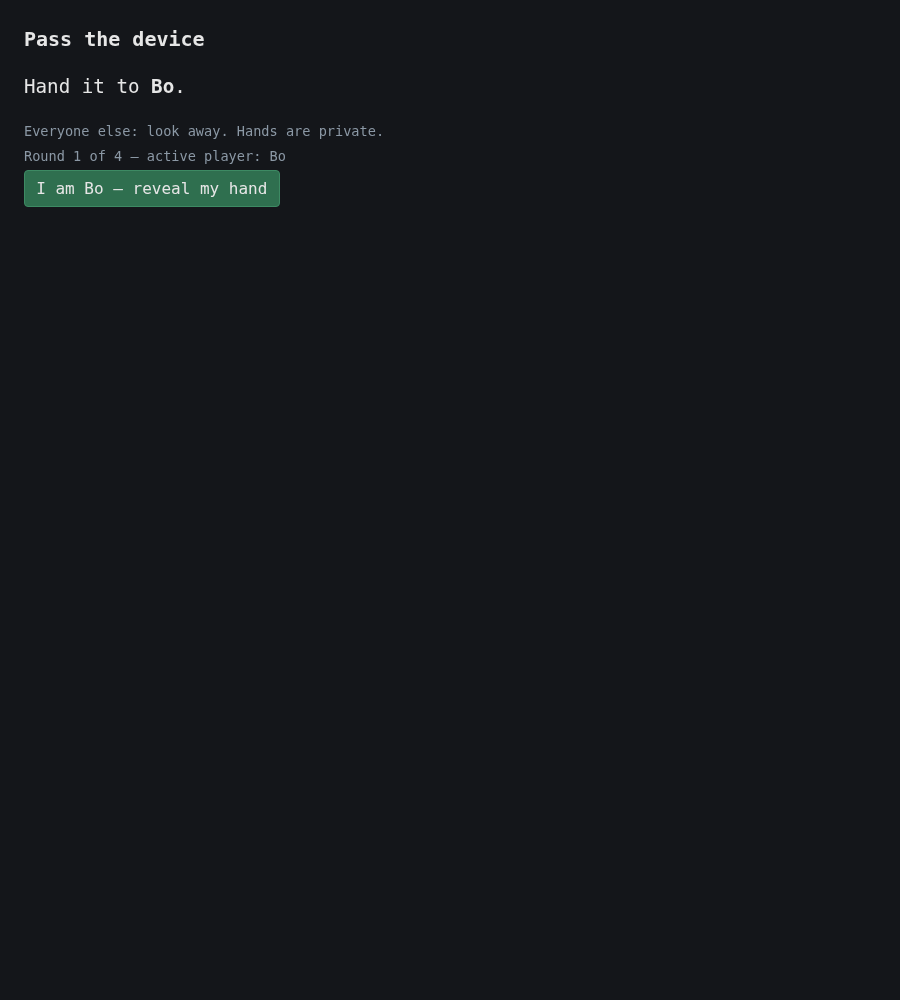
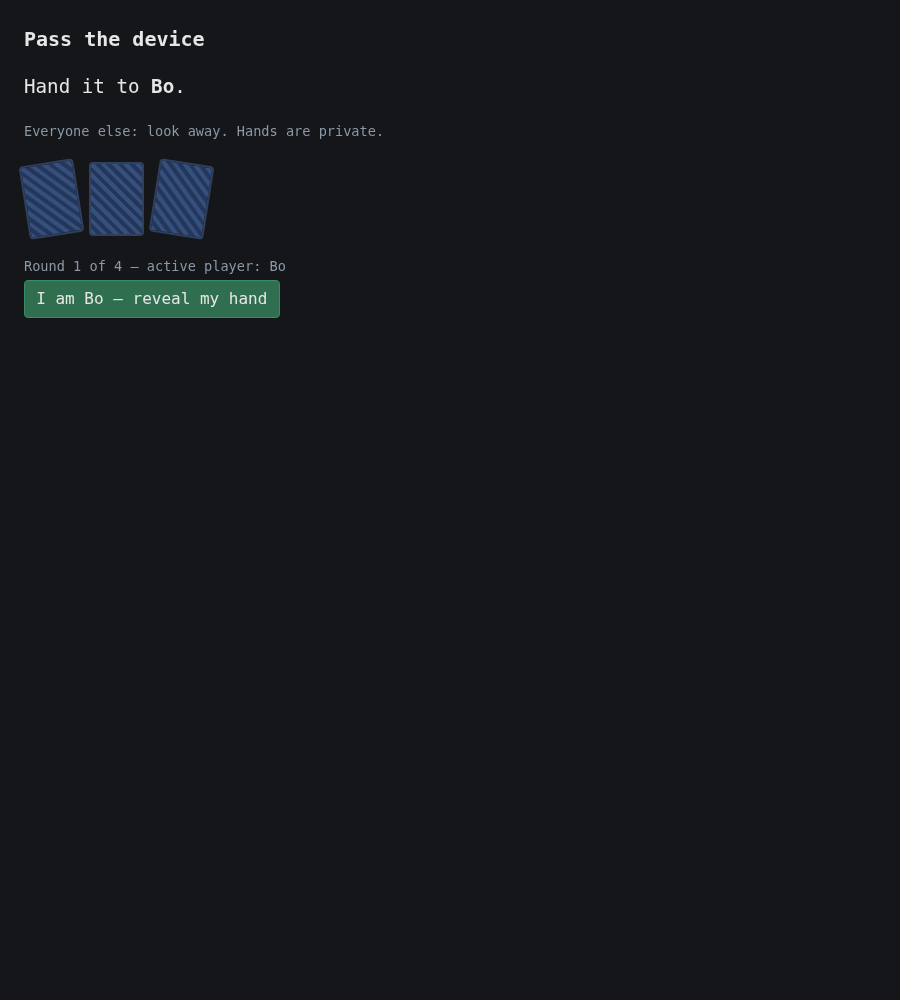
chore(tradewar): script the screenshot capture and reshoot
Fixed seed and fixed names, driven by real clicks, so a rerun is a clean
diff rather than a reshuffle. Renumbered to 11 shots covering the table:
a Force Trade caught mid-tween, a mid-game board with both zones filled,
and the 6-player seating.

Claude-Session: https://claude.ai/code/session_01Ww7seCjpzBJCbNuH6UMmJM

Changed region(s): [[0.0, 0.155, 0.3111, 0.341]]

diff --git a/minigames/minigame-tradewar/tests/capture-screenshots.js b/minigames/minigame-tradewar/tests/capture-screenshots.js
@@ -1,0 +1,150 @@
+// Recapture screenshots/ from the running app.
+// Run: node tests/capture-screenshots.js  (starts its own static server)
+//
+// Every shot is driven by real clicks against a fixed seed and fixed names, so the same
+// hands come out every time and a rerun is a clean diff rather than a reshuffle.
+
+import { chromium } from 'playwright';
+import { spawn } from 'node:child_process';
+import { mkdirSync } from 'node:fs';
+import { fileURLToPath } from 'node:url';
+import path from 'node:path';
+
+const ROOT = path.resolve(path.dirname(fileURLToPath(import.meta.url)), '..');
+const OUT = path.join(ROOT, 'screenshots');
+const PORT = Number(process.env.TW_PORT ?? 8138);
+const URL = `http://127.0.0.1:${PORT}/index.html`;
+
+const SEED = 4242;
+const NAMES = ['Ann', 'Bo', 'Cy', 'Di'];
+
+const server = spawn('python3', ['-m', 'http.server', String(PORT), '--bind', '127.0.0.1'], {
+  cwd: ROOT, stdio: 'ignore',
+});
+for (let i = 0; ; i++) {
+  try { if ((await fetch(URL)).ok) break; } catch { /* not up yet */ }
+  if (i > 40) { server.kill(); throw new Error(`server never came up on ${PORT} (set TW_PORT)`); }
+  await new Promise((r) => setTimeout(r, 250));
+}
+
+mkdirSync(OUT, { recursive: true });
+const browser = await chromium.launch();
+const page = await browser.newPage({ viewport: { width: 900, height: 1000 } });
+
+const screenOf = () => page.evaluate(() => window.__tw.getScreen());
+const stateOf = () => page.evaluate(() => window.__tw.getState());
+const esc = (s) => s.replace(/"/g, '\\"');
+
+async function shot(name) {
+  const file = path.join(OUT, `${name}.png`);
+  await page.screenshot({ path: file, fullPage: true });
+  console.log(`  ${path.relative(ROOT, file)}`);
+}
+
+async function setup({ playerCount = 4 } = {}) {
+  await page.goto(URL);
+  await page.click(`#count-${playerCount}`);
+  await page.fill('#seed-input', String(SEED));
+  for (let i = 0; i < playerCount && i < NAMES.length; i++) {
+    await page.fill(`#name-${i}`, NAMES[i]);
+    await page.fill(`#drunk-${i}`, String(i * 3));
+  }
+}
+
+/** Lock the lowest unlocked card for whoever is on the clock. */
+async function lockOne() {
+  const id = await page.evaluate(() => {
+    const st = window.__tw.getState();
+    const me = st.players.find((p) => p.id === st.submissionOrder[st.submissionIndex]);
+    return me.hand.find((c) => !c.locked).id;
+  });
+  await page.click(`button[data-action="lock"][data-card-id="${esc(id)}"]`);
+}
+
+/** Click forward until the named screen, acting where an action is required. */
+async function advanceTo(target, { max = 60 } = {}) {
+  for (let i = 0; i < max; i++) {
+    const s = await screenOf();
+    if (s === target) return;
+    if (s === 'pass') await page.click('#reveal-hand');
+    else if (s === 'turn') await lockOne();
+    else if (s === 'result') await page.click('#result-continue');
+    else if (s === 'summary') await page.click('#continue-round');
+    else break;
+  }
+  if ((await screenOf()) !== target) throw new Error(`never reached the ${target} screen`);
+}
+
+console.log('capturing trade-war screenshots:');
+try {
+  // 1 — setup
+  await setup();
+  await shot('1-setup');
+
+  // 2 — handoff interstitial
+  await page.click('#start-game');
+  await shot('2-pass');
+
+  // 3 — the table, seen by the active player (Force Trade available)
+  await page.click('#reveal-hand');
+  await shot('3-turn-active');
+
+  // 4 — a Force Trade in flight, mid-tween
+  await page.click('[data-trade-give]');
+  await page.click('[data-trade-target]');
+  await page.click('[data-trade-take]:not([disabled])');
+  await page.click('#confirm-trade');
+  await page.waitForTimeout(230);
+  await shot('4-trade-in-flight');
+
+  // 5 — the same trade, resolved and badged
+  await page.waitForTimeout(700);
+  await shot('5-result-trade');
+
+  // 6 — the player who was traded on, with the notice explaining it
+  await page.click('#result-continue');
+  await page.click('#reveal-hand');
+  await shot('6-traded-on-notice');
+
+  // 7 — a Replace resolving: old card to the discard, new one off the deck
+  const replaceId = await page.evaluate(() => {
+    const st = window.__tw.getState();
+    const me = st.players.find((p) => p.id === st.submissionOrder[st.submissionIndex]);
+    return me.hand.find((c) => !c.locked).id;
+  });
+  await page.click(`button[data-action="replace"][data-card-id="${esc(replaceId)}"]`);
+  await page.waitForTimeout(800);
+  await shot('7-result-replace');
+
+  // 8 — round summary (shared screen, faces redacted)
+  await page.click('#result-continue');
+  await advanceTo('summary');
+  await shot('8-summary');
+
+  // 9 — a mid-game table with both zones populated
+  await page.click('#continue-round');
+  for (let i = 0; i < 30; i++) {
+    const s = await screenOf();
+    if (s === 'turn' && (await stateOf()).currentRound >= 3) break;
+    if (s === 'pass') await page.click('#reveal-hand');
+    else if (s === 'turn') await lockOne();
+    else if (s === 'result') await page.click('#result-continue');
+    else if (s === 'summary') await page.click('#continue-round');
+    else break;
+  }
+  await shot('9-turn-midgame-zones');
+
+  // 10 — final results
+  await advanceTo('over');
+  await shot('10-endscreen');
+
+  // 11 — the 6-player table, which seats three players along the north edge
+  await setup({ playerCount: 6 });
+  await page.click('#start-game');
+  await page.click('#reveal-hand');
+  await shot('11-table-6-players');
+} finally {
+  await browser.close();
+  server.kill();
+}
+console.log('done.');

diff --git a/minigames/minigame-tradewar/README.md b/minigames/minigame-tradewar/README.md
@@ -13,8 +13,9 @@ build.js               inlines everything into one distributable HTML file
 tests/logic-tests.js   state-level checks (node)
 tests/browser-tests.js end-to-end checks driving real Chromium clicks
 tests/dist-smoke.js    proves the built single file plays over file://
+tests/capture-screenshots.js  regenerates screenshots/
 dist/trade-war.html    generated — the double-click build
-screenshots/           captured from the running app
+screenshots/           captured from the running app (npm run shots)
 ```
 
 ## Run
@@ -23,6 +24,7 @@ screenshots/           captured from the running app
 npm run serve                   # then open http://127.0.0.1:8137/index.html
 npm test                        # rules-layer checks (node, no browser)
 npm run ui                      # end-to-end checks (starts its own server + Chromium)
+npm run shots                   # recapture screenshots/ from the running app
 ```
 
 `npm run ui` needs `npx playwright install chromium` once. Set `TW_PORT` if 8137 is busy.
